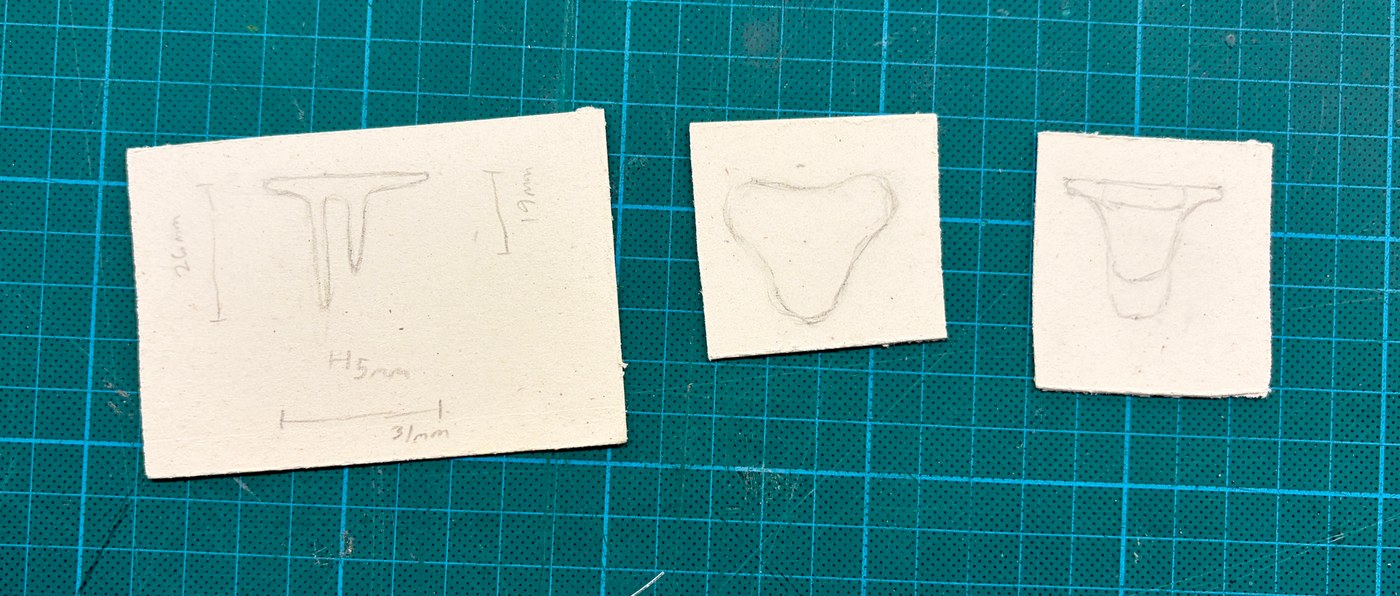
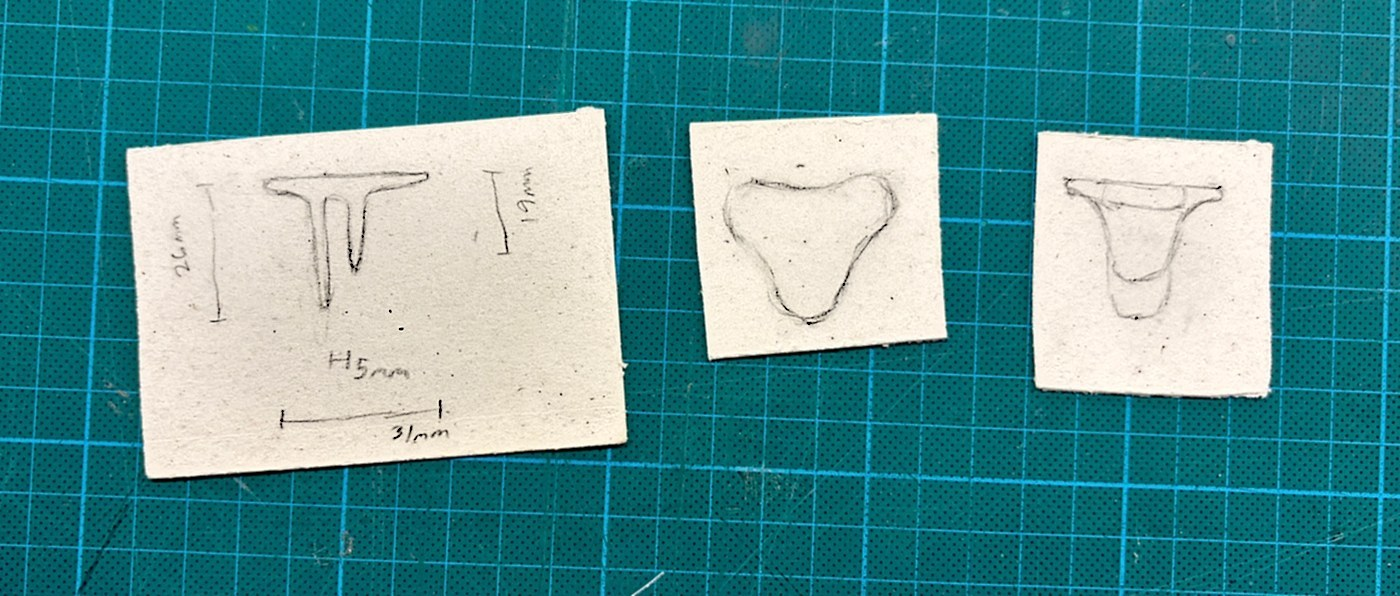
The pencil reads now, and the cache key stops being a filename
Jack: "I feel like you cant see the drawing very easily, can you edit it a
little bit to make the pencil marks more dark?"

THE GRAPHITE WAS 14 LEVELS OFF THE PAPER. Measured in the big card: pencil
at 223, card at 237. At 442px wide that is nothing, which is why the
drawing vanished. The edit is a levels stretch of 195-248 on LUMINANCE,
applied as a per-channel multiplier so hue is preserved exactly - a
per-channel stretch pulled the card's warmth around - and it takes the gap
to 61.

THE MASK IS BUILT FROM A BLURRED COPY, and that is the whole trick. Keyed
off each pixel's own value, a dark stroke surrounded by paper scores LOW and
gets excluded: the exact pixels the edit exists for. Blurred at sigma 16, a
stroke inherits the card's brightness and comes along with it, while the
cutting mat (median 91) stays out entirely. The mat and its grid are
untouched.

A 1.0 PRE-BLUR, BECAUSE GRAIN IS THE EXPENSIVE THING. The stretch multiplies
the paper's grain along with the graphite, and the first version came out
377KB of jpeg against the 240KB it replaced. Softening before the stretch
and sharpening gently after lands at 220KB / 162KB webp - lighter than the
file it replaces - with the dimensions still legible. Four combinations were
rendered and weighed.

It is a reproduction adjustment, not a retouch: nothing is added or moved,
the contrast the camera lost on light graphite is put back.

AND THE CACHE KEY MOVES FROM THE FILENAME TO A ?v= CONTENT HASH. Renaming
[…]

diff --git a/script.js b/script.js
@@ -252,8 +252,8 @@ const projectData = {
          third pass at this crop should move to the mesh's ?v= content hash
          instead of inventing a third filename. See the cache note in
          CLAUDE.md for why the bytes cannot change at a live path. */
-      hero: { src: '/assets/projects/pot-clip/cs-hero-clip.jpg', w: 1600, h: 1600,
-        full: '/assets/projects/pot-clip/cs-hero-clip.jpg',
+      hero: { src: '/assets/projects/pot-clip/cs-hero-clip.jpg?v=efbfbfe5', w: 1600, h: 1600,
+        full: '/assets/projects/pot-clip/cs-hero-clip.jpg?v=efbfbfe5',
         altKey: 'proj.pot-clip.cs.alt.hero' },
       meta: [
         ['proj.pot-clip.cs.meta.context', 'proj.pot-clip.cs.meta.contextV'],
@@ -281,8 +281,8 @@ const projectData = {
         { id: 'research', title: 'proj.pot-clip.cs.research.t',
           html: 'proj.pot-clip.cs.research.grid', aside: true,
           figures: [
-            { src: '/assets/projects/pot-clip/cs-storefront.jpg', w: 1000, h: 1778,
-              full: '/assets/projects/pot-clip/cs-storefront.jpg',
+            { src: '/assets/projects/pot-clip/cs-storefront.jpg?v=c8d3a2c4', w: 1000, h: 1778,
+              full: '/assets/projects/pot-clip/cs-storefront.jpg?v=c8d3a2c4',
               altKey: 'proj.pot-clip.cs.alt.store' },
           ] },
 
@@ -357,23 +357,23 @@ const projectData = {
                was lying on and keeps the title and both questions. */
             { label: 'proj.pot-clip.cs.process.1',
               text: 'proj.pot-clip.cs.process.1b', figures: [
-              { src: '/assets/projects/pot-clip/cs-paper-profiles.jpg', w: 1400, h: 596,
-                full: '/assets/projects/pot-clip/cs-paper-profiles.jpg',
+              { src: '/assets/projects/pot-clip/cs-paper-profiles.jpg?v=5edbb0ac', w: 1400, h: 596,
+                full: '/assets/projects/pot-clip/cs-paper-profiles.jpg?v=5edbb0ac',
                 altKey: 'proj.pot-clip.cs.alt.profiles' },
-              { src: '/assets/projects/pot-clip/cs-sketch-page.jpg', w: 1400, h: 1096,
-                full: '/assets/projects/pot-clip/cs-sketch-page.jpg',
+              { src: '/assets/projects/pot-clip/cs-sketch-page.jpg?v=88107ffb', w: 1400, h: 1096,
+                full: '/assets/projects/pot-clip/cs-sketch-page.jpg?v=88107ffb',
                 altKey: 'proj.pot-clip.cs.alt.sketches' },
             ] },
             { label: 'proj.pot-clip.cs.process.2',
               text: 'proj.pot-clip.cs.process.2b', figures: [
-              { src: '/assets/projects/pot-clip/cs-foam.jpg', w: 1200, h: 1500,
-                full: '/assets/projects/pot-clip/cs-foam.jpg',
+              { src: '/assets/projects/pot-clip/cs-foam.jpg?v=824ac2ae', w: 1200, h: 1500,
+                full: '/assets/projects/pot-clip/cs-foam.jpg?v=824ac2ae',
                 altKey: 'proj.pot-clip.cs.alt.foam' },
             ] },
             { label: 'proj.pot-clip.cs.process.3',
               text: 'proj.pot-clip.cs.process.3b', figures: [
-              { src: '/assets/projects/pot-clip/cs-blender.jpg', w: 1400, h: 895,
-                full: '/assets/projects/pot-clip/cs-blender.jpg',
+              { src: '/assets/projects/pot-clip/cs-blender.jpg?v=876a7bde', w: 1400, h: 895,
+                full: '/assets/projects/pot-clip/cs-blender.jpg?v=876a7bde',
                 altKey: 'proj.pot-clip.cs.alt.blender' },
             ] },
             /* CROPPED TO THE VIEWPORT. The source is a screenshot of the
@@ -387,8 +387,8 @@ const projectData = {
                alt.14; this is a different render and gets its own alt. */
             { label: 'proj.pot-clip.cs.process.4',
               text: 'proj.pot-clip.cs.process.4b', figures: [
-              { src: '/assets/projects/pot-clip/cs-render.jpg', w: 1400, h: 933,
-                full: '/assets/projects/pot-clip/cs-render.jpg',
+              { src: '/assets/projects/pot-clip/cs-render.jpg?v=9d954ada', w: 1400, h: 933,
+                full: '/assets/projects/pot-clip/cs-render.jpg?v=9d954ada',
                 altKey: 'proj.pot-clip.cs.alt.render' },
             ] },
           ] },
@@ -400,8 +400,8 @@ const projectData = {
           ],
           html: 'proj.pot-clip.cs.testing.b',
           figures: [
-            { src: '/assets/projects/pot-clip/cs-rim.jpg', w: 1000, h: 1778,
-              full: '/assets/projects/pot-clip/cs-rim.jpg',
+            { src: '/assets/projects/pot-clip/cs-rim.jpg?v=8f0f0861', w: 1000, h: 1778,
+              full: '/assets/projects/pot-clip/cs-rim.jpg?v=8f0f0861',
               altKey: 'proj.pot-clip.cs.alt.rim' },
           ] },
 
@@ -411,14 +411,14 @@ const projectData = {
         { id: 'posters', title: 'proj.pot-clip.cs.posters.t',
           text: 'proj.pot-clip.cs.posters.b',
           figures: [
-            { src: '/assets/projects/pot-clip/cs-poster-1.jpg', w: 900, h: 1273,
-              full: '/assets/projects/pot-clip/cs-poster-1.jpg',
+            { src: '/assets/projects/pot-clip/cs-poster-1.jpg?v=e75e799a', w: 900, h: 1273,
+              full: '/assets/projects/pot-clip/cs-poster-1.jpg?v=e75e799a',
               altKey: 'proj.pot-clip.cs.alt.poster1' },
-            { src: '/assets/projects/pot-clip/cs-poster-2.jpg', w: 900, h: 1273,
-              full: '/assets/projects/pot-clip/cs-poster-2.jpg',
+            { src: '/assets/projects/pot-clip/cs-poster-2.jpg?v=dad29eee', w: 900, h: 1273,
+              full: '/assets/projects/pot-clip/cs-poster-2.jpg?v=dad29eee',
               altKey: 'proj.pot-clip.cs.alt.poster2' },
-            { src: '/assets/projects/pot-clip/cs-poster-3.jpg', w: 900, h: 1273,
-              full: '/assets/projects/pot-clip/cs-poster-3.jpg',
+            { src: '/assets/projects/pot-clip/cs-poster-3.jpg?v=0b4bd52b', w: 900, h: 1273,
+              full: '/assets/projects/pot-clip/cs-poster-3.jpg?v=0b4bd52b',
               altKey: 'proj.pot-clip.cs.alt.poster3' },
           ] },
 
@@ -463,7 +463,7 @@ const projectData = {
          ever disagree, because a hand-maintained hash is a hash that will
          be wrong. */
       src: '/assets/projects/pot-clip/model.jmm?v=1c0b18a9',
-      poster: { src: '/assets/projects/pot-clip/14-object.jpg', w: 1400, h: 933 },
+      poster: { src: '/assets/projects/pot-clip/14-object.jpg?v=afb421be', w: 1400, h: 933 },
       // index into the alt.N series, 0-based — 13 resolves proj.…alt.14
       altIndex: 13,
     },
@@ -822,9 +822,15 @@ function mediaTag(entry, projectId, index, projectTitle, eager) {
      AVIF was generated and measured too and is not here: it came out 8%
      smaller than WebP on the home page, which does not pay for a second set
      of 50 files and a third source. */
-  const webp = src.replace(/\.jpg$/, '.webp');
+  /* QUERY-AWARE, because a path may carry a ?v= content hash. The old
+     /\.jpg$/ anchors at the end of the string, so 'x.jpg?v=ab12cd34' did not
+     match and the <source> would have pointed at the JPEG - which a browser
+     would happily accept as image/webp and then fail to decode. Both forms
+     go through one helper so they cannot drift. */
+  const toWebp = (p) => p.replace(/\.jpg(\?|$)/, '.webp$1');
+  const webp = toWebp(src);
   const webpSmall = (typeof entry === 'object' && entry.small)
-    ? entry.small.replace(/\.jpg$/, '.webp') : null;
+    ? toWebp(entry.small) : null;
   const webpSet = (webpSmall && entry.w)
     ? `${escapeAttr(webpSmall)} 800w, ${escapeAttr(webp)} ${entry.w}w`
     : escapeAttr(webp);
@@ -839,7 +845,7 @@ function mediaTag(entry, projectId, index, projectTitle, eager) {
   const loadAttrs = eager ? ' loading="eager" fetchpriority="high"' : ' loading="lazy"';
   const img = `<img src="${escapeAttr(src)}" alt="${escapeAttr(alt)}"${dims}${srcset}${track}${full}${exif}` +
               `${loadAttrs} decoding="async">`;
-  return src.endsWith('.jpg')
+  return /\.jpg(\?|$)/.test(src)
     ? `<picture><source type="image/webp" srcset="${webpSet}"${webpSizes}>${img}</picture>`
     : img;
 }

diff --git a/tools/asset-rev.js b/tools/asset-rev.js
@@ -1,0 +1,83 @@
+#!/usr/bin/env node
+/*
+ * asset-rev.js — keep every ?v= in script.js equal to its file's content hash.
+ *
+ *   node tools/asset-rev.js            rewrite any stale hash in place
+ *   node tools/asset-rev.js --check    exit 1 if one is stale, change nothing
+ *
+ * WHY THIS EXISTS. vercel.json gives everything under /assets/ an hour of
+ * freshness and a WEEK of stale-while-revalidate, so changing the bytes at a
+ * path a visitor has already loaded shows them the old file for days. The
+ * mesh has always carried a ?v= for exactly this (see the note in
+ * CLAUDE.md); photographs were handled by renaming the file instead, which
+ * works and costs a new filename every time a crop is tuned. cs-hero went
+ * cs-hero -> cs-hero-bowl -> cs-hero-clip in two commits before this landed.
+ *
+ * IT IS NOT A BUILD STEP. Nothing runs at deploy and nothing runs in a
+ * browser; it rewrites a few characters in a static file on this machine,
+ * the way tools/write-fallback.js rewrites a block of index.html. The
+ * pre-commit hook calls it so the hash cannot be forgotten - a hash somebody
+ * has to remember to update is a hash that will be wrong.
+ *
+ * OPT-IN BY MARKER. It only touches paths that ALREADY carry a ?v=, so
+ * adding one to a path is how you enrol it and there is no sweeping change
+ * to the other ~90 assets. `?v=0` is the convenient way to enrol a new one:
+ * it is stale by definition, so the first run fills it in.
+ *
+ * .jmm IS SKIPPED. tools/model-check.js owns the mesh's hash and asserts it
+ * independently; two tools writing the same characters is how they drift.
+ */
+const fs = require('fs');
+const path = require('path');
+const crypto = require('crypto');
+
+const ROOT = path.join(__dirname, '..');
+const TARGET = path.join(ROOT, 'script.js');
+const CHECK = process.argv.includes('--check');
+
+const hashOf = (rel) =>
+  crypto.createHash('sha256').update(fs.readFileSync(path.join(ROOT, rel))).digest('hex').slice(0, 8);
+
+const src = fs.readFileSync(TARGET, 'utf8');
+
+/* The path, then the marker. Anchored on /assets/ and stopped at the quote
+   so it cannot run past the end of one string literal into the next - the
+   tempered-lazy bug this repo has shipped three times. */
+const RE = /(\/assets\/[^'"?\s]+)\?v=([0-9a-f]+)/g;
+
+const stale = [];
+const missing = [];
+let out = src.replace(RE, (whole, rel, have) => {
+  if (rel.endsWith('.jmm')) return whole;          // model-check owns this one
+  if (!fs.existsSync(path.join(ROOT, rel))) { missing.push(rel); return whole; }
+  const want = hashOf(rel);
+  if (want === have) return whole;
+  stale.push({ rel, have, want });
+  return rel + '?v=' + want;
+});
+
+/* A webp sibling shares the jpg's hash in the markup (mediaTag derives the
+   .webp path from the .jpg one), so the two files would have to be hashed
+   separately to be strictly correct. They always change together, so the
+   jpg's hash is a perfectly good cache key for both - but say so, because
+   the alternative reading is that the webp is unversioned. */
+
+if (missing.length) {
+  console.error('asset-rev: these ?v= paths do not exist on disk:\n  ' + missing.join('\n  '));
+  process.exit(1);
+}
+
+if (!stale.length) {
+  console.log('asset-rev: every ?v= matches its file');
+  process.exit(0);
+}
+
+for (const s of stale) console.log('  ' + s.rel + '  ?v=' + s.have + ' -> ?v=' + s.want);
+
+if (CHECK) {
+  console.error('asset-rev: ' + stale.length + ' stale hash(es). Run `node tools/asset-rev.js`.');
+  process.exit(1);
+}
+
+fs.writeFileSync(TARGET, out);
+console.log('asset-rev: updated ' + stale.length + ' hash(es) in script.js');

diff --git a/tools/audit.js b/tools/audit.js
@@ -330,6 +330,26 @@ console.log('\n— WebP invariant (every inline jpg has a webp sibling)');
   say(n + ' inline jpgs each have a webp', miss.length === 0, miss.join(' '));
 }
 
+console.log('\n— asset ?v= hashes match the files');
+{
+  /* The mesh has carried a ?v= for a long time and model-check.js asserts
+     it; the case-study photographs joined after a re-crop reached Jack
+     looking unchanged, because /assets/ is served with a week of
+     stale-while-revalidate. tools/asset-rev.js writes them and the
+     pre-commit hook runs it, so this is a belt-and-braces check rather
+     than the mechanism - but a hook only runs where core.hooksPath is set,
+     which is local config and does not survive a clone. */
+  const { execFileSync } = require('child_process');
+  let ok = true, detail = '';
+  try {
+    execFileSync(process.execPath, [R + 'tools/asset-rev.js', '--check'], { stdio: 'pipe' });
+  } catch (e) {
+    ok = false;
+    detail = String(e.stdout || '').trim().split('\n').join(' | ');
+  }
+  const n = (js.match(/\?v=[0-9a-f]+/g) || []).length;
+  say('every ?v= is its file\'s current hash (' + n + ')', ok, detail);
+}
 console.log('\n— every asset projectData points at exists');
 {
   /* A RENAME DONE HALFWAY IS SILENT. Re-cropping a photograph at a path

diff --git a/CLAUDE.md b/CLAUDE.md
@@ -22,7 +22,9 @@ Bash. **Git:** `/Library/Developer/CommandLineTools/usr/bin/git` — the plain
 
 **Check it:** `node tools/audit.js` and `node tools/field-check.js`, before
 any commit touching more than one file, plus `node tools/model-check.js`
-when you touch the 3D viewer or repack its mesh. None replaces driving the
+when you touch the 3D viewer or repack its mesh. **Re-exporting a photograph
+needs nothing** — the pre-commit hook runs `tools/asset-rev.js` and the
+`?v=` hash follows the bytes. None replaces driving the
 page — and the model checker is the one that replaces *watching* it, since
 the pane freezes `requestAnimationFrame`.
 A `git config core.hooksPath .githooks` in a fresh clone turns the
@@ -1734,7 +1736,29 @@ scale with the column and only the 12px gap does not.
 twice.
 **What each crop took.** The profiles lost height and nothing else: the
 three paper pieces occupy the middle 48% of that frame and the rest is
-cutting mat. The sketch spread came in on every side, *"so it looks more
+cutting mat.
+**AND THE PENCIL ON THEM WAS DARKENED**, because it could not be read at
+442px: *"I feel like you cant see the drawing very easily, can you edit it a
+little bit to make the pencil marks more dark?"* Measured in the big card,
+the graphite sat at **223 against paper at 237 — a 14-level gap**. The edit
+is a levels stretch of 195–248 on LUMINANCE, applied as a per-channel
+multiplier so hue is preserved exactly (a per-channel stretch pulled the
+card's warmth around), and it takes that gap to **61**.
+**The mask is built from a BLURRED copy, and that is the whole trick.** Keyed
+off each pixel's own value, a dark stroke surrounded by paper scores LOW and
+gets excluded — the exact pixels the edit is for. Blurred at sigma 16, a
+stroke inherits the card's brightness and comes along, while the cutting mat
+(median 91) stays out of it entirely.
+**A 1.0 pre-blur, because grain is the expensive thing.** The stretch
+multiplies the paper's grain along with the graphite: the first version came
+out 377KB of jpeg against the 240KB it replaced. Softening before the
+stretch and sharpening gently after lands at **220KB / 162KB webp — lighter
+than the file it replaces** — and the drawing reads. Four combinations were
+rendered and weighed.
+**It is a reproduction adjustment, not a retouch.** Nothing is added or
+moved; the contrast that the camera lost on light graphite is put back. If
+an edit would ever change what the photograph SHOWS, it does not belong in
+a portfolio of real work. The sketch spread came in on every side, *"so it looks more
 zoomed in and we just see the paper"* — to just inside the notebook page,
 which drops the dark desk it was lying on and keeps the title and both
 handwritten questions. **The bottom question sits close to the edge**, so
@@ -1805,17 +1829,33 @@ feature is simply absent rather than approximate. And `.cs-fig img` is
 `width`/`height` attributes — the layout silently reverts to the old
 heights instead of showing a distorted picture, which is why it reads as
 "nothing changed" rather than as a bug.
-**So: any change to the BYTES at a live `/assets/` path needs a new path.**
-`cs-profiles` → `cs-paper-profiles`, `cs-sketches` → `cs-sketch-page`, and
-`cs-hero` → `cs-hero-bowl` → `cs-hero-clip`, old files deleted each time.
-**That last one renamed twice in two commits, and that is the threshold**: a
-third pass at the same picture should move to the mesh's `?v=` content hash
-rather than invent a third name. The hash costs a query-aware
-`.jpg`→`.webp` swap in `mediaTag` (which every project uses, so it is a
-change worth making deliberately rather than mid-iteration) plus an audit
-check that each hash matches its file, the way `model-check` does for the
-mesh. A filename costs no code at all, which is why it wins the first time
-and loses the third.
+**SO THE CASE-STUDY ASSETS CARRY A `?v=` CONTENT HASH NOW**, the thing the
+mesh has always had. It was renames first — `cs-profiles` →
+`cs-paper-profiles`, `cs-sketches` → `cs-sketch-page`, `cs-hero` →
+`cs-hero-bowl` → `cs-hero-clip` — which works, costs no code, and costs a
+new filename every time a crop is tuned. Four re-exports in four turns is
+where that stops being cheap: the next one had no honest name left, only
+`-v2`.
+**`node tools/asset-rev.js` writes the hashes and the pre-commit hook runs
+it**, so changing the bytes updates the URL on its own — the same shape as
+`write-fallback.js`, and for the same reason. *A hash somebody has to
+remember to update is a hash that will be wrong*, which is the line the
+model's own note has carried from the start.
+**It is opt-in by marker**: it only touches paths that ALREADY carry a
+`?v=`, so enrolling a path is adding one and nothing sweeps through the
+other ~90 assets. `?v=0` is the way in — stale by definition, so the first
+run fills it. **`.jmm` is skipped**, because `model-check.js` owns the
+mesh's hash and two tools writing the same characters is how they drift.
+**`mediaTag` had to become query-aware**, and this is the part that would
+have failed silently: the webp path came from `src.replace(/\.jpg$/, …)`,
+anchored at the end of the string, so `x.jpg?v=ab12cd34` did not match and
+the `<source>` would have offered a JPEG labelled `image/webp` — which a
+browser accepts and then cannot decode. Both that and the `endsWith('.jpg')`
+test go through one helper now, unit-tested on four forms including
+`/a/jpg.dir/c.jpg`.
+**`audit.js` runs `asset-rev --check`** as belt and braces, because a hook
+only runs where `core.hooksPath` is set and that is local config which does
+not survive a clone. Made to fail before being trusted.
 **`audit.js` now checks that every `/assets/` path in `projectData` resolves
 to a file and that each jpg has its webp sibling** — 91 paths — because a
 rename done halfway is otherwise silent, and `<picture>` falls back on an
